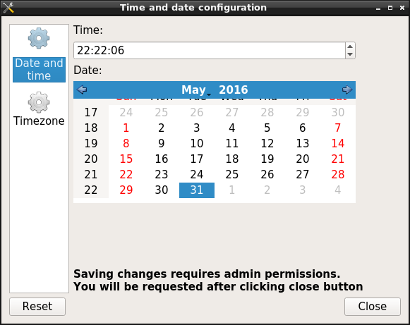
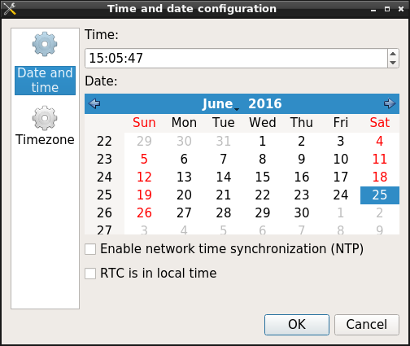
Update README.md
Reflects exchange of backend System Tools Backends / liboobs.
Adds some additional information while at it.

diff --git a/README.md b/README.md
@@ -1,21 +1,72 @@
-## lxqt-admin
+# lxqt-admin
 
-This repository is providing two tools to adjust settings of the operating system LXQt is running on. Both can
-be launched from GUI "Configuration Center" of [lxqt-config](https://github.com/lxde/lxqt-config).
+## Overview
 
-GUI "Time and date configuration", binary `lxqt-admin-time`, can be used to adjust the system time of the operating
-system as well as the timezone.
+This repository is providing two GUI tools to adjust settings of the operating system LXQt is running on.
+
+"Time and date configuration", binary `lxqt-admin-time`, can adjust system time and timezone.
 
 ![lxqt-admin-time](lxqt-admin-time.png)
+
+It is using `systemd-timedated` as backend which is accessed by its D-Bus interface. Among other this means the option
+to sync the system time by NTP is relying on `systemd-timesyncd` as backend.
 
 In "User and Group Settings", binary `lxqt-admin-user`, users and groups of the operating system can be modified.
 
 ![lxqt-admin-user](lxqt-admin-user.png)
 
-Technical note:   
-Currently the binaries summarized in this repository are relying on
-[system-tools-backends](http://system-tools-backends.freedesktop.org) and their wrapper
-[liboobs](https://github.com/GNOME/liboobs). These aren't maintained any longer and hence lack in many Linux
-distributions which obviously prevents the usage of lxqt-admin on these distributions. Switching to different and common
-backends is work in progress, see https://github.com/lxde/lxqt/issues/495, so this situation will hopefully change in
-the not too distant future.
+The backend is a script `lxqt-admin-user-helper`. By default it is in turn using the shadow tools to do the actual work.
+The script can be modified to use different tools, though.
+
+Both are using [polkit](https://www.freedesktop.org/wiki/Software/polkit/) to handle permissions. So polkit and a corresponding
+authentication agent are needed at runtime. As for LXQt sessions [lxqt-policykit](https://github.com/lxde/lxqt-policykit/)
+is the first choice.
+
+Earlier versions of lxqt-admin were relying on [system-tools-backends](http://system-tools-backends.freedesktop.org)
+and their wrapper [liboobs](https://github.com/GNOME/liboobs). These were replaced as both go unmaintained for years and
+were hence dropped from many distributions heavily restricting the usage of lxqt-admin.   
+As long as they can be built it should still be possible to compile lxqt-admin release ≤ 0.10 against them in order
+to make use of it on platforms lacking systemd like BSD.
+
+## Installing
+
+### Compiling sources
+
+Build dependencies are Git, CMake, qttools to handle localization as well as library [liblxqt](https://github.com/lxde/liblxqt)
+and its dependency [libqtxdg](https://github.com/lxde/libqtxdg).   
+By default lxqt-admin is pulling translations from repository [translations](https://github.com/lxde/translations/) at
+compile time, see file README.md of the latter.
+
+To compile, run `cmake`, `make` and `make install`.
+`cmake` can be invoked in an out of source build directory and will normally need variable `-DCMAKE_INSTALL_PREFIX=/usr`.
+`make install` can be invoked with `DESTDIR=<some path>`.
+
+### Binary packages
+
+#### Arch Linux
+
+[AUR](https://aur.archlinux.org) packages `lxqt-admin` and `lxqt-admin-git` are providing the current stable release and the
+actual master checkout at compile time as usual.   
+Note that package `lxqt-admin` had to be kept in the AUR due to lack of the dependency liboobs as depicted [above](#overview).
+So it will be transferred to community as of release 0.11.
+
+#### Debian
+
+Package `lxqt-admin` is available in the official repositories as of Debian stretch.
+
+#### Fedora
+
+Fedora doesn't provide lxqt-admin so far due to lack of the dependency liboobs as depicted [above](#overview). This will hopefully change
+once release LXQt release 0.11 makes it into the Fedora repositories.
+
+#### openSUSE
+
+Same situation as Fedora.
+
+## Usage
+
+Both GUIs can be launched from GUI "Configuration Center" of [lxqt-config](https://github.com/lxde/lxqt-config) and are available
+in LXQt panel's main menu at Preferences - LXQt settings as well.
+
+The actual usage should be self-explanatory. To apply settings the GUI of the polkit authentication agent that's in use is
+launched to acquire the root password.
